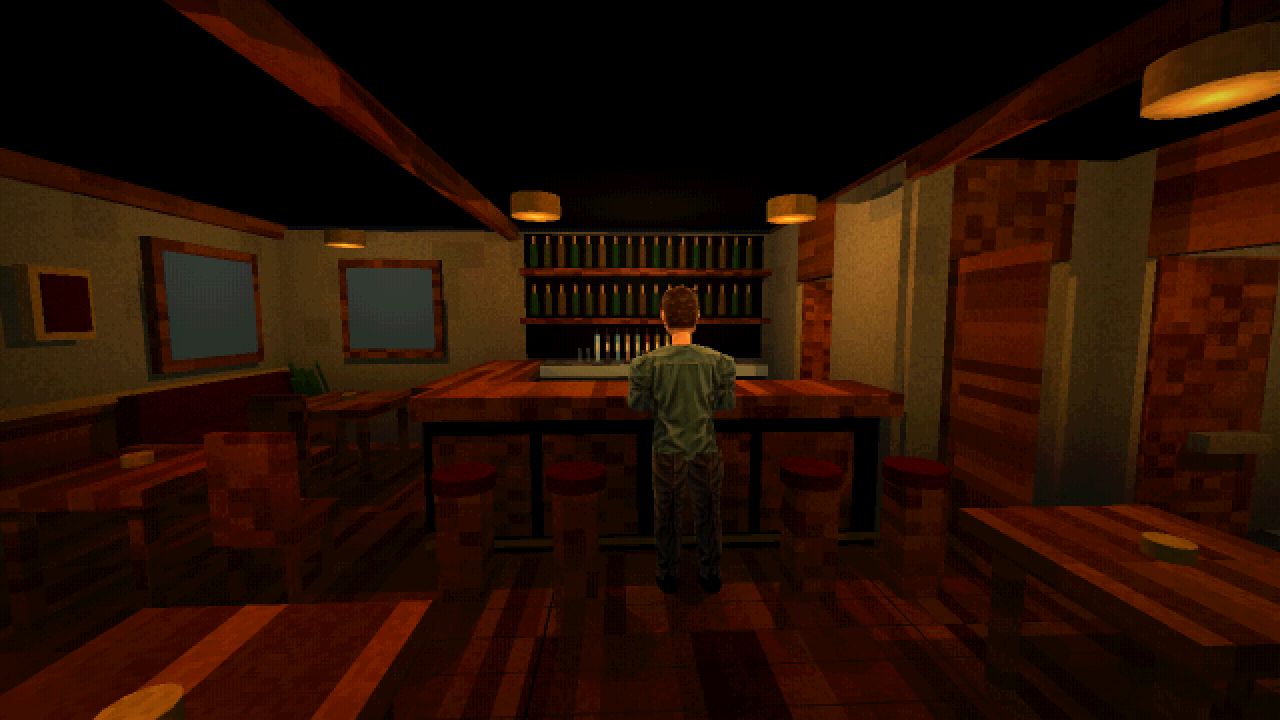
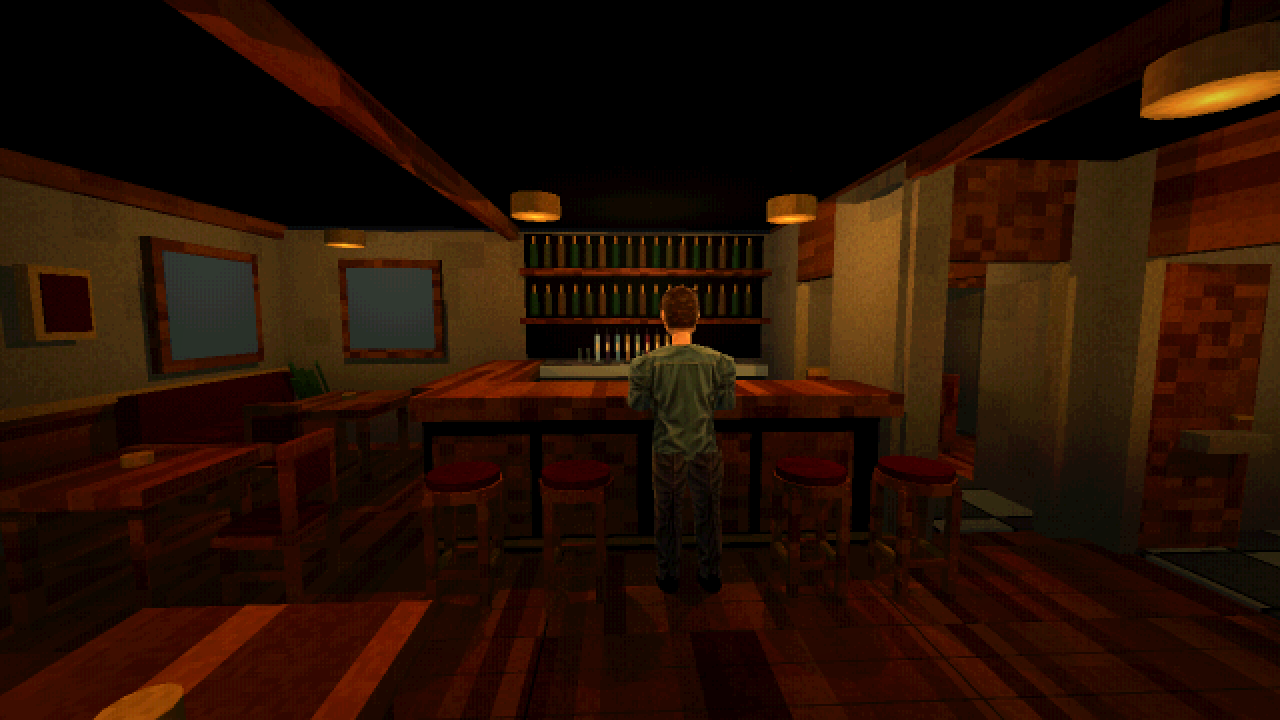
fix: refine bar seating and doors and coordinate visitor animation

diff --git a/docs/BAR_REFERENCE.md b/docs/BAR_REFERENCE.md
@@ -1,12 +1,14 @@
 # BAR-PLAN-01: бар по плану участника
 
-Ветка codex/reference-bar от c395c74 (включает CHAR-07). [Исходный план](sources/bar-plan-reference.png) предоставлен участником 2026-10-28; используется как документационный референс, не игровая текстура. [Вид зала](art/bar-reference-entry.png), [план реализации](art/bar-reference-plan.png).
+BAR-PLAN-02 (2026-10-28): по трём скриншотам участника удалены стол и стул у правого конца стойки (x=1.4/2.15, z=0.8). У табуретов четыре ножки/перекладины/мягкое сиденье; стулья с цельными задними стойками, мягкими вставками и разворотом к своему столу. Полотна остаются только у главного входа, между тамбуром/залом, в двух туалетах и у входа в кухню справа от стойки (второй скриншот). Остальные внутренние проёмы свободны. Кухонное полотно открыто внутрь кухни. Задний наружный торец остаётся стеной, уличного выхода нет. Интерактивное открывание дверей пока не реализовано. [Проверки и передача](worklog/2026-10-28-16-bar-furniture-animation.md).
+
+Ветка codex/reference-bar от c395c74 (включает CHAR-07). [Исходный план](sources/bar-plan-reference.png) предоставлен участником 2026-10-28; используется как документационный референс, не игровая текстура. [Вид зала](art/bar-reference-entry.png), [план реализации](art/bar-reference-plan.png), [свободный проход](art/bar-reference-passage.png), [посадочные места](art/bar-reference-seating.png). Проверочные кадры обновлены после BAR-PLAN-02.
 
 F5 запускает новый бар в reasoning_demo. Слева столы/диваны, в северной центральной части Г-образная стойка и бутылочные полки, справа кухня/склад, ниже два санузла и комната персонала, внизу входной тамбур. За складом небольшой задний тамбур. Игрок может проходить во все внутренние помещения через открытые дверные проёмы. Внешние двери закрыты; открытия дверей/улицы в этой задаче нет.
 
 На картинке размеры 10×8 м расходятся с подписью «общая площадь ~60 м²». Принят основной габарит 10×8 м (80 м² до вычета стен), потолок 2.8 м; задний тамбур добавляет около 1.1 м². Размеры адаптированы к игровой капсуле: внутренние проёмы 0.85–0.95 м. Это игровая адаптация, не точный архитектурный чертёж.
 
-Стойка 1.16 м высотой, четыре табурета с промежутком под текущего стоящего NPC. Рабочая зона за стойкой доступна через кухню с правой стороны. Подойти к заднему рабочему столу и нажать E — прежние приготовление/шейкер/подача. NPC появляется в тамбуре, идёт к свободному месту перед стойкой и возвращается после разговора. Мебель/стены имеют коллизии, декоративные бутылки/листва/планки — нет.
+Стойка 1.16 м высотой, четыре табурета с промежутком под текущего стоящего NPC. Рабочая зона за стойкой доступна через кухню с правой стороны. Подойти к заднему рабочему столу и нажать E — прежние приготовление/шейкер/подача. NPC появляется в тамбуре, идёт к свободному месту перед стойкой и возвращается после конца смены, закрытого разговора и возврата стакана. Мебель/стены имеют коллизии, декоративные бутылки/листва/планки — нет.
 
 Материалы используют существующий worn_surface, добавлены доски пола, панели, балки, подвесные лампы тёплого света, оконные рамы, простые растения/картины и мебель. Кухня содержит мойку/плиту, склад ящики, санузлы унитазы/умывальники, персонал кровать/шкаф/стол. Это первый геометрический и световой проход; финальные модели, ручные текстуры и интерактивность бытовых предметов потребуют следующих задач.
 

diff --git a/docs/worklog/2026-10-28-16-bar-furniture-animation.md b/docs/worklog/2026-10-28-16-bar-furniture-animation.md
@@ -1,0 +1,34 @@
+# 2026-10-28: BAR-PLAN-02 / CHAR-10 — мебель, двери и переходы анимаций
+
+Второй участник + Codex. Ветка codex/reference-bar, база 9a7d291. По трём скриншотам/прямому запросу участника. Общие tscn не редактировались.
+
+## Выполнено
+
+- Удалены стол (1.4, 0, 0.8) и соседний стул (2.15, 0, 0.8), освобождён проход справа от стойки.
+- Барные табуреты: четыре отдельные ножки, перекладины, деревянный обод и мягкое сиденье. Стулья: цельные задние стойки, верхняя планка, мягкое сиденье/спинка, разворот к соответствующему столу; скорректирован отступ от столешниц. Основные части мебели имеют коллизии.
+- wall_x/wall_z создают полотно только явно. Оставлены EntranceDoor, VestibuleFrontOpenDoor, WCOneOpenDoor, WCTwoOpenDoor, KitchenFrontOpenDoor. Последняя — дверь со второго скриншота, открыта внутрь кухни. Остальные проёмы сохранены без полотен.
+- VisitorModel начинает кадр с rest, смешивает готовые повороты цепочек рук вместо IK-целей с противоположным полюсом. Это устраняет скачок плеча при едва заметном весе ходьбы. Контакт кисти затухает непрерывно. Ходьба/отход имеют приоритет над глотком, глоток над речью/реакциями/покоем. Уточнены цель кисти и направление локтя при глотке.
+
+## Проверки
+
+Godot 4.7.2, Windows, GPU Compatibility / RTX 4070 / Dummy audio.
+
+| Команда / сценарий | Фактический результат |
+| --- | --- |
+| `tools/check.ps1 -Godot ./.tools/godot/Godot_v4.7.2-stable_win64_console.exe` | PASS; `.tools/bar-polish-validation.log`: модель 68/0, поведение 29/0, бар 19/0, полный проход 50/0 и остальные проверки. До заключительной настройки цели/полюса глотка |
+| GPU `res://tests/reference_bar_test.tscn` | PASS 19/0; просмотрены passage/seating/plan, маршрут туда/обратно и рабочее место доступны |
+| GPU `res://tests/visitor_behavior_test.tscn` после заключительной настройки | PASS 30/0; просмотрены walking/sip. `.tools/bar-polish-behavior-final-gpu.log` |
+| Headless `res://tests/visitor_behavior_test.tscn` после заключительной настройки | PASS 30/0; `.tools/bar-polish-behavior-final.log` |
+| `git diff --check` | PASS |
+
+Промежуточная новая проверка локтя обнаружила слишком высокую, затем направленную внутрь позу; поправлены цель и полюс, проверка сохранена и проходит. Это не ослабление проверки до старого поведения.
+
+## Контракты и ограничения
+
+[ADR-0038](../decisions/0038-visitor-behavior.md), [ADR-0039](../decisions/0039-reference-bar-layout.md), CONTRACTS обновлены. Публичные поля модели, Main, диалоги, обслуживание и сохранения прежние. Параметры генераторов двери/стула используются только внутри ReferenceBar. Двери пока статичны, физической самоколлизии меша и отдельных пальцев нет. Мебель остаётся процедурной; финальная художественная приёмка не заявляется.
+
+Файлы: scripts/levels/reference_bar.gd, scripts/characters/visitor_model.gd, scripts/characters/visitor_behavior.gd, tests/reference_bar_test.gd, tests/visitor_behavior_test.gd; STATUS/HANDOFF/BACKLOG/TESTING/CONTRACTS/BAR_REFERENCE/VISITOR_BEHAVIOR, ADR-0038/0039, worklog и проверочные изображения docs/art.
+
+## Продолжение
+
+F5 заново: обойти стойку справа, осмотреть посадочные места и двери; дождаться гостя, запустить разговор, подать напиток во время речи, проверить переход обратно к опоре. STATUS/BACKLOG обновлены. Прежние локальные project.godot и content/drinks/test_materials.json сохранены вне задачи. GitHub/main/релиз не публиковались.

diff --git a/docs/VISITOR_BEHAVIOR.md b/docs/VISITOR_BEHAVIOR.md
@@ -1,5 +1,7 @@
 # CHAR-07: поведение TEST-посетителя
 
+CHAR-10: каждый кадр начинается с rest-позы. Переход опора → опущенные руки смешивает готовые повороты костей, а не цели с противоположным полюсом локтя: малый вес больше не выворачивает плечо. Приоритет движений: ходьба/отход → глоток у стойки → речь/реакции/слушание/покой. Речевые движения и реакции затухают при поднятии стакана; контакт кисти восстанавливается плавно, без порогового включения. Во время глотка локоть направлен вниз/наружу, цель кисти учитывает высоту стакана. Это согласование процедурных поз, не система физической самоколлизии меша. [Протокол](worklog/2026-10-28-16-bar-furniture-animation.md).
+
 CHAR-09: у опущенных рук walking IK локти сгибаются назад и немного наружу. Прежний полюс +Z направлял их к лицу и создавал обратный сгиб. Проверка обеих рук на полном шаге добавлена в visitor_behavior_test (25 проверок).
 
 Уточнение CHAR-08: автоматический уход теперь разрешён только после session.shift.finished, при неактивном Runner и после возврата стакана. Завершение одной ветки и отмена оставляют NPC у стойки, можно начать следующий разговор. В текущем TEST-проходе смена завершается после разговора и обслуживания; альтернативные сюжетные ответы не требуется проходить все. Смягчено включение ходьбы, кисть удерживает ориентацию при сгибании руки, возврат стакана считается от фиксированной исходной позы и не зависит от частоты кадров. [Проверки](worklog/2026-10-28-14-npc-animation-polish.md). Описания ухода сразу по dialogue_finished ниже исторические.

diff --git a/docs/decisions/0039-reference-bar-layout.md b/docs/decisions/0039-reference-bar-layout.md
@@ -1,5 +1,7 @@
 # ADR-0039: игровая адаптация плана бара
 
+BAR-PLAN-02, 2026-10-28: полотно больше не создаётся автоматически в каждом проёме. Локальные генераторы wall_x/wall_z получают последний опциональный door: bool=false; только KitchenFront/WCOne/WCTwo/VestibuleFront передают true. Главная EntranceDoor отдельная, закрыта. chair(pos, yaw) явно ориентирует мебель к столу. Единственный вызывающий код — ReferenceBar._ready; контракты Main/якорей/подачи не меняются. Стол/стул рядом с кухонным проходом удалены по скриншоту, каркас посадочной мебели детализирован. Проверки reference_bar_test: список дверей, свободные прежние/освобождённые точки, путь NPC/рабочее место.
+
 2026-10-28, прямое поручение участника по изображению. Принимаем основной габарит 10×8 м и расположение зон. Подпись 60 м² противоречит размерам, поэтому её не используем для масштабирования. Задний тамбур — небольшой выступ за основной габарит.
 
 ReferenceBar — самостоятельная процедурная локация с физическими стенами/мебелью, подключена через Main.reference_bar_enabled в reasoning_demo. Общую main.tscn/старый graybox не заменяем: старые fixtures продолжают проверять исходные контракты. Сцену reasoning_demo изменяет только этот исполнитель.

diff --git a/docs/HANDOFF.md b/docs/HANDOFF.md
@@ -1,5 +1,7 @@
 # Передача проекта
 
+BAR-PLAN-02 / CHAR-10: F5 → пройти справа от стойки (стол убран), проверить кухонную дверь и туалеты, осмотреть табуреты/стулья. Начать разговор и подать напиток во время речи: жест уступает глотку, рука плавно возвращается к опоре. [Результат/проверки/файлы](worklog/2026-10-28-16-bar-furniture-animation.md). Работа локальна в codex/reference-bar, общие tscn не менялись; project.godot/test_materials.json остаются отдельными прежними локальными правками.
+
 CHAR-09 исправляет выгнутые руки из пользовательского скриншота: walking IK направляет локти назад/наружу. F5 → обойти NPC сбоку при приходе. Тест контролирует обе стороны на полном шаге, GPU 25/0; [протокол](worklog/2026-10-28-15-walking-elbows.md). Публичные API прежние.
 
 CHAR-08: NPC больше не уходит по dialogue_finished. Условие — shift.finished, нет активного разговора, стакан возвращён. F5 → разговор → завершить ветку: NPC остаётся; после обслуживания/конца смены уходит. Переход ходьбы/кисть/возврат стакана сглажены. [Проверки](worklog/2026-10-28-14-npc-animation-polish.md). Ветка codex/reference-bar, без публикации.

diff --git a/docs/STATUS.md b/docs/STATUS.md
@@ -1,5 +1,7 @@
 # Текущее состояние
 
+BAR-PLAN-02 / CHAR-10: обновлены каркасы табуретов/стульев и их ориентация, убран стол со стулом у кухни. Остались 5 дверных полотен: вход/тамбур, 2 туалета, кухня со второго скриншота. Смешивание рук теперь по поворотам костей с приоритетом ходьба → глоток → разговор; нет скачка локтя при малом весе перехода. Общий check PASS; после последней настройки глотка GPU behavior 30/0. [Протокол](worklog/2026-10-28-16-bar-furniture-animation.md). codex/reference-bar, локально.
+
 CHAR-09: исправлен обратный сгиб опущенных рук при ходьбе/отходе. Полюс локтей теперь назад (−Z в модели) и немного наружу для каждой стороны. GPU поведение 25/0, модель 68/0, новый бар 15/0. [Протокол](worklog/2026-10-28-15-walking-elbows.md). codex/reference-bar, локально.
 
 CHAR-08: в codex/reference-bar сглажены включение ходьбы/кисть при глотке/возврат стакана. NPC остаётся после завершения ветки и отмены; автоматический уход только в конце всей смены, после разговора/возврата стакана. GPU поведение 24/0. [Протокол](worklog/2026-10-28-14-npc-animation-polish.md). Изменения локальны.

diff --git a/docs/decisions/0038-visitor-behavior.md b/docs/decisions/0038-visitor-behavior.md
@@ -1,5 +1,7 @@
 # ADR-0038: локальный цикл поведения посетителя
 
+CHAR-10, 2026-10-28: по отзыву о конфликтующих анимациях введён приоритет ходьба/отход → глоток → разговор/покой. Внутри VisitorModel цепочки рук смешиваются по quaternion-позам; frame начинается с reset_bone_poses. Геометрия/скелет и публичные поля прежние, изменения локальны для presentation. VisitorBehavior уточняет цель кисти при глотке. Потребители: прежние GuestArt/VisitorBehavior, visitor_behavior_test; старый behavior_enabled=false проверяет visitor_model_test. Меш не получает физическую самоколлизию.
+
 CHAR-08, 2026-10-28: по новому поручению автоматический уход отвязан от dialogue_finished. VisitorBehavior ждёт session.shift.finished + неактивный Runner + законченный глоток. Конец отдельной ветки/отмена не запускает уход. Явный request_departure остаётся техническим API для теста/авторского сценария. Контракт Session/Runner/сохранений прежний. [Протокол](../worklog/2026-10-28-14-npc-animation-polish.md).
 
 2026-10-28. Принято по прямому поручению участника: ходьба, реакции, взгляд, слушание и напиток.

diff --git a/docs/TESTING.md b/docs/TESTING.md
@@ -1,5 +1,7 @@
 # Проверки
 
+BAR-PLAN-02 / CHAR-10: reference_bar_test — 19 проверок (только разрешённые дверные полотна, отсутствие столика, 10 свободных точек прохода/работы, маршрут и приготовление). GPU добавляет passage/seating к entry/hall/plan. visitor_behavior_test — 30 проверок: малый вес ходьбы/глотка не переворачивает плечо, речевой жест/реакция не меняют полную позу глотка, возврат без скачков, локоть ниже плеча и снаружи. В тестовой подаче есть видимая жидкость для графической оценки. [Фактический протокол](worklog/2026-10-28-16-bar-furniture-animation.md).
+
 CHAR-08: visitor_behavior_test расширен до 24 проверок: реальное завершение ветки, повторный разговор/отмена, удержание NPC до конца смены и окончания глотка. GPU и headless PASS; [протокол](worklog/2026-10-28-14-npc-animation-polish.md).
 
 BAR-PLAN-01: reference_bar_test.tscn в check.ps1; включает 8 проёмов/рабочую зону, прибытие/уход NPC, unit scale якоря, доступ и открытие приготовления. GPU снимает entry/hall/plan в artifacts/reference_bar. [Протокол](worklog/2026-10-28-13-reference-bar.md).

diff --git a/docs/CONTRACTS.md b/docs/CONTRACTS.md
@@ -1,5 +1,7 @@
 # Контракты интеграции
 
+BAR-PLAN-02 / CHAR-10: [ADR-0039](decisions/0039-reference-bar-layout.md) уточняет внутренние wall_x/wall_z(..., door: bool=false), chair(pos, yaw) у ReferenceBar; потребитель только его генератор. [ADR-0038](decisions/0038-visitor-behavior.md) задаёт приоритет анимаций без изменения публичного VisitorModel/VisitorBehavior API. Проверки: reference_bar_test, visitor_behavior_test, visitor_model_test.
+
 CHAR-08 уточняет VisitorBehavior: автоматический уход по session.shift.finished после закрытия Runner/возврата стакана; dialogue_finished отдельной ветки его не запускает. [ADR-0038](decisions/0038-visitor-behavior.md). Публичные сигнатуры прежние.
 
 BAR-PLAN-01: Main.reference_bar_enabled включает ReferenceBar, VisitorBehavior.entrance/waypoints задают маршрут новой локации. Путь/ID поверхностей и якорей сохранены; рабочая точка и подача перенесены. [Контракт](BAR_REFERENCE.md), [ADR-0039](decisions/0039-reference-bar-layout.md).

diff --git a/docs/worklog/README.md b/docs/worklog/README.md
@@ -1,5 +1,8 @@
 # Журнал работы
 
+- [2026-10-28: мебель, двери и согласование анимаций](2026-10-28-16-bar-furniture-animation.md).
+- [2026-10-28: направление локтей при ходьбе](2026-10-28-15-walking-elbows.md).
+
 - [2026-10-28: сглаживание анимаций и уход после всей смены](2026-10-28-14-npc-animation-polish.md).
 
 - [2026-10-28: новый бар по плану участника](2026-10-28-13-reference-bar.md).
